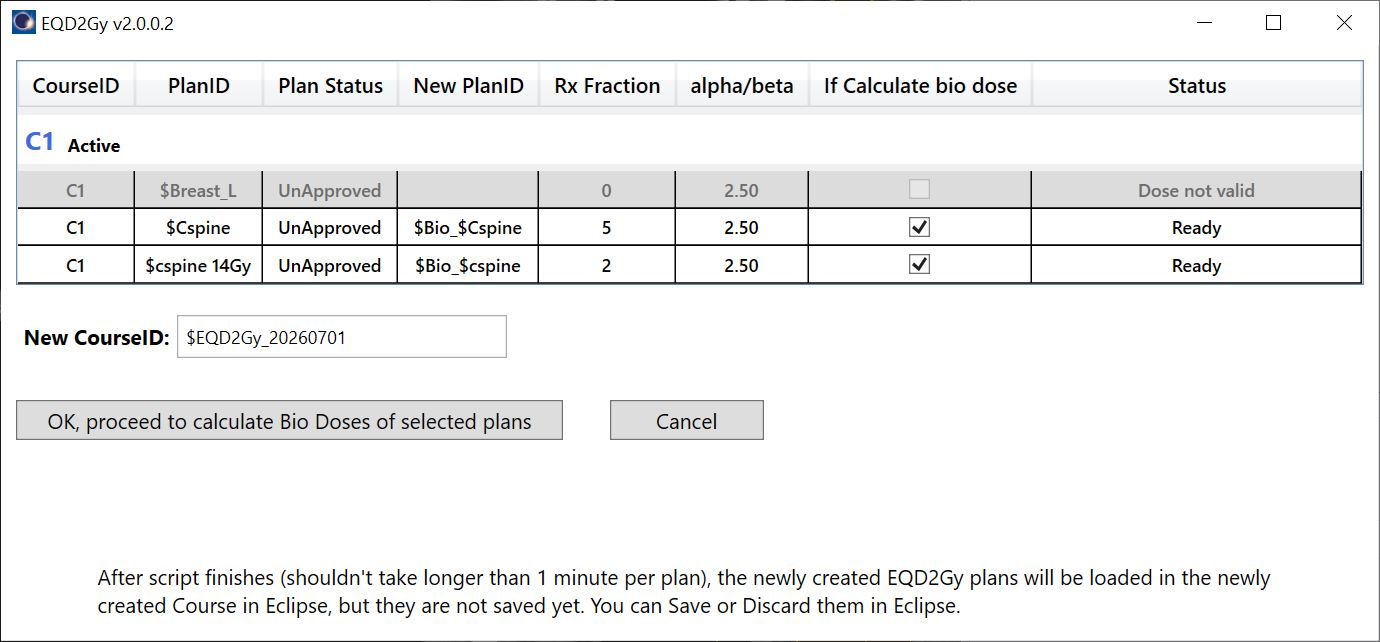
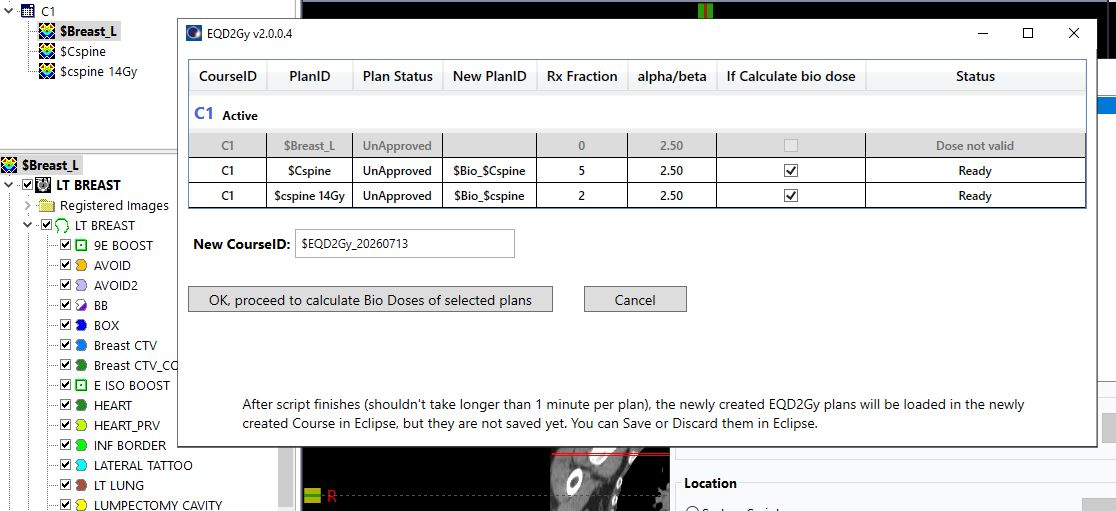
v2.0.1.x - better error handling with user feedback when New CourseID already exist and when New PlanIDs have duplications. With Doc/images updated

Changed region(s): [[0.0, 0.0, 1.0, 1.0], [0.1523, 0.2055, 0.2437, 0.2348], [0.0, 0.2055, 0.0914, 0.2348]]

diff --git a/MainWindow.xaml b/MainWindow.xaml
@@ -133,7 +133,7 @@
                 </DataGridTextColumn>
                 
                 
-                <DataGridTextColumn Header="New PlanID" Binding="{Binding NewPlanID}" IsReadOnly="True" ElementStyle="{StaticResource centerTextBlock}">
+                <DataGridTextColumn Header="New PlanID" Binding="{Binding NewPlanID}" IsReadOnly="False" ElementStyle="{StaticResource centerTextBlock}">
                     
                 </DataGridTextColumn>
 

diff --git a/MainViewModel.cs b/MainViewModel.cs
@@ -182,10 +182,35 @@ namespace BioDoseUI
 
         //public IEnumerable<PlanSetup> PlanSetupsInScope { get; }
 
-        internal async Task ProcessRows(Patient pat, Course newC)
+        private static string GetDuplicateSummary(IEnumerable<string> items)
+        {
+            var duplicates = items
+                .Where(s => !string.IsNullOrWhiteSpace(s))
+                .GroupBy(s => s, StringComparer.OrdinalIgnoreCase)
+                .Where(g => g.Count() > 1)
+                .Select(g => $"{g.Key} ({g.Count()} times)")
+                .ToList();
+
+            return duplicates.Any()
+                ? $"Duplicate new PlanID found: {string.Join(", ", duplicates)}"
+                : string.Empty;
+        }
+
+        internal async Task ProcessRows(Patient pat, Course newC, System.Windows.Controls.Button btn)
         {
             try
             {
+                var dup_msg = GetDuplicateSummary(PlanInfoList.Select(t => t.NewPlanID));
+
+                if (!string.IsNullOrEmpty(dup_msg))
+                {
+                    MessageBox.Show(dup_msg + "\n\nPlease rename some of the New Plan IDs", "Error - EQD2Gy");
+
+                    btn.IsEnabled = true;
+
+                    return;
+                }
+
                 foreach (var pl in PlanInfoList.Where(t => t.IfUsed))
                 {
                     Log3_static.writeBlankLines(1);

diff --git a/MainWindow.xaml.cs b/MainWindow.xaml.cs
@@ -90,6 +90,13 @@ namespace BioDoseUI
 
                 Log3_static.writeBlankLines(1);
 
+                if(pat.Courses.Select(c=> c.Id.ToUpper()).Contains(singleNewCourseID.Text.ToUpper()))
+                {
+                    MessageBox.Show("New Course ID already exists. Please rename New CourseID", "Error - EQD2Gy");
+
+                    return;
+                }
+
 
                 pat.BeginModifications();
 
@@ -103,7 +110,7 @@ namespace BioDoseUI
                 
                 btn.IsEnabled = false;
 
-                await VM.ProcessRows(pat, newC);
+                await VM.ProcessRows(pat, newC, btn);
 
                 CancelBtn.Content = "Close";
             }

diff --git a/Properties/AssemblyInfo.cs b/Properties/AssemblyInfo.cs
@@ -29,5 +29,5 @@ using System.Runtime.InteropServices;
 //      Build Number
 //      Revision
 //
-[assembly: AssemblyVersion("2.0.0.4")]
-[assembly: AssemblyFileVersion("2.0.0.4")]
+[assembly: AssemblyVersion("2.0.1.4")]
+[assembly: AssemblyFileVersion("2.0.1.4")]